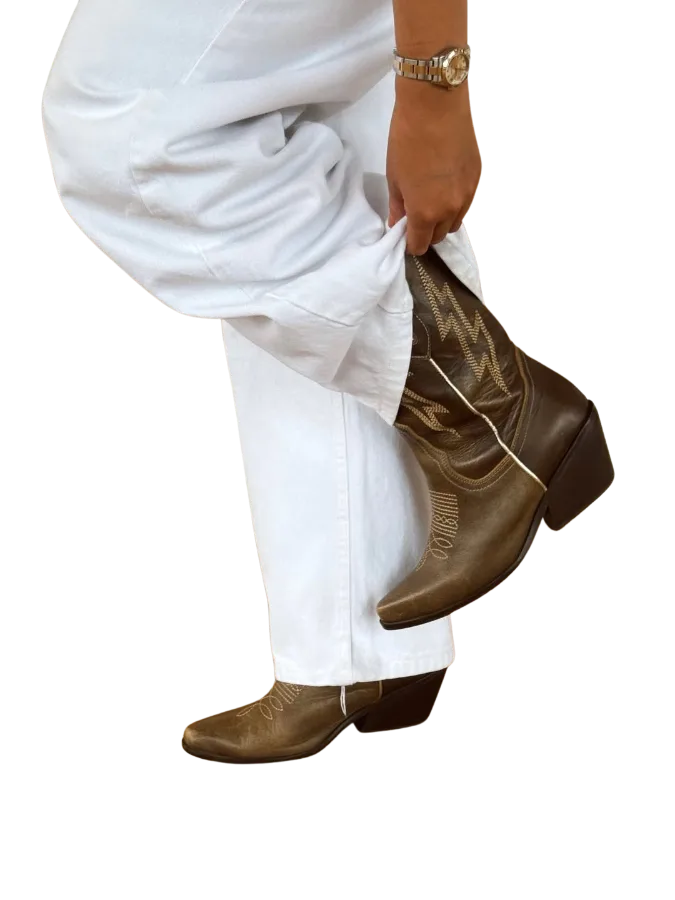
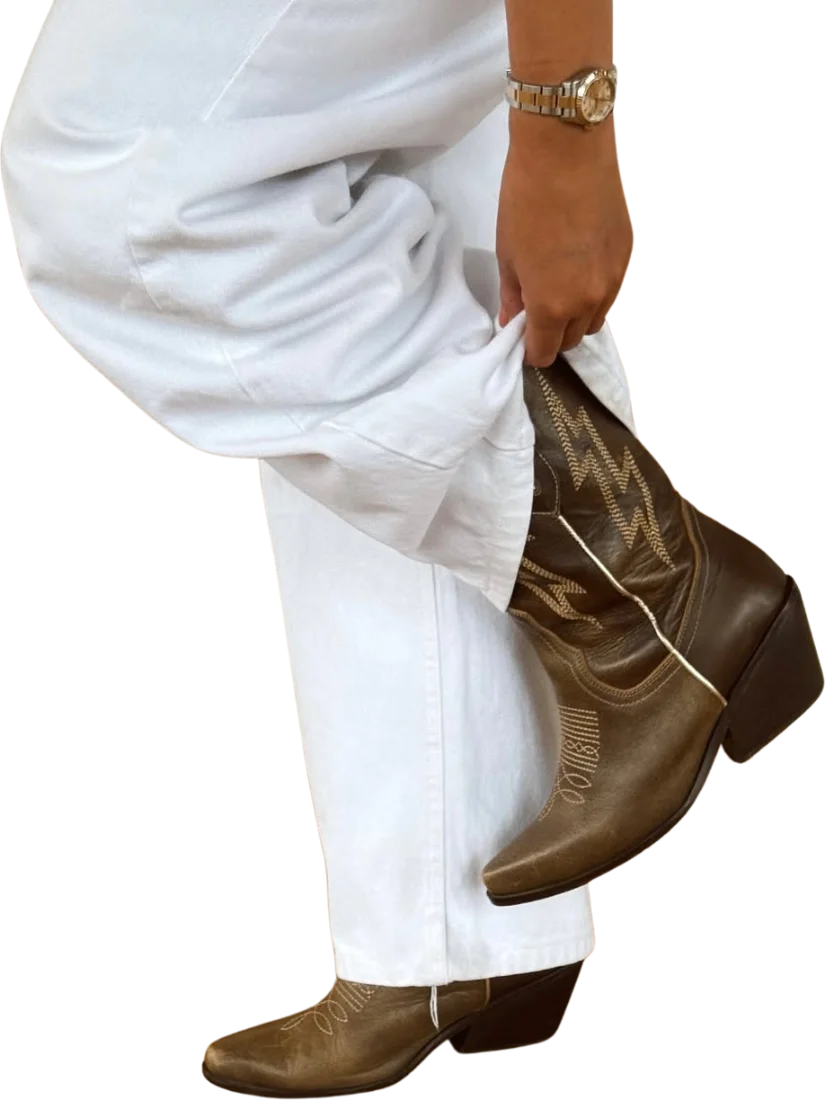
Rediseño bloque del taller y ajuste del hero en pantallas anchas

diff --git a/styles.css b/styles.css
@@ -81,12 +81,12 @@ p+p{margin-top:1em}
 .hero-in{position:relative;width:100%;display:grid;grid-template-columns:1fr;align-items:end;min-height:calc(min(100svh,980px) - 72px)}
 .hero-title{position:relative;z-index:1;align-self:center;padding-top:4vh}
 .hero-title .display{font-size:clamp(110px,22vw,300px);line-height:.82}
-.hero-photo{position:absolute;right:clamp(-40px,4vw,80px);bottom:0;width:min(52vw,640px);z-index:2;pointer-events:none}
+.hero-photo{position:absolute;right:max(0px,calc((100% - var(--max)) / 2));bottom:0;width:min(50vw,620px);z-index:2;pointer-events:none}
 .hero-photo img{width:100%;height:auto;filter:grayscale(1) contrast(1.05)}
-.hero-chip{position:absolute;z-index:3;left:-22%;top:60%}
+.hero-chip{position:absolute;z-index:3;left:-6%;top:70%}
 .hero-chip .chip{display:block;width:max-content;font-size:clamp(28px,4vw,56px);padding:.12em .3em .04em}
 .hero-side{position:absolute;right:var(--gutter);top:50%;transform:translateY(-50%) rotate(90deg);transform-origin:right center;translate:50% 0;font-family:var(--display);letter-spacing:.35em;font-size:18px;color:var(--grey);white-space:nowrap;z-index:1}
-.hero-bottom{position:relative;z-index:3;padding-bottom:clamp(28px,6vh,60px);max-width:440px}
+.hero-bottom{position:relative;z-index:3;padding-bottom:clamp(28px,6vh,60px);max-width:min(440px,calc(50vw - 110px))}
 .hero-bottom .lede{font-weight:500;margin-bottom:22px}
 .hero-bottom .row{display:flex;flex-wrap:wrap;gap:12px}
 .hero-in{grid-template-rows:1fr auto}
@@ -153,10 +153,13 @@ section{position:relative}
 }
 
 /* ---------- taller ---------- */
-.taller{overflow:hidden}
-.taller-top{display:grid;grid-template-columns:1.2fr .8fr;gap:clamp(24px,4vw,60px);align-items:center}
-.taller-top .display{font-size:clamp(76px,12.5vw,180px);line-height:.84}
-.taller-top img{width:100%;max-width:320px;margin-left:auto}
+.taller{overflow:hidden;padding-top:0}
+.taller-hero{position:relative;min-height:clamp(540px,52vw,760px);display:flex;align-items:flex-end;padding-bottom:clamp(12px,2vw,24px)}
+.taller-boots{position:absolute;top:0;right:max(var(--gutter),calc((100% - var(--max)) / 2 + var(--gutter)));height:94%;width:auto;max-width:none;z-index:0;pointer-events:none}
+.taller-copy{position:relative;z-index:1;width:100%}
+.taller-copy .spaced{color:var(--red);margin-bottom:14px}
+.taller-copy .display{font-size:clamp(76px,13vw,196px);line-height:.84}
+.taller-copy .lede{margin-top:22px;max-width:44ch}
 .pillars{display:grid;grid-template-columns:repeat(3,1fr);gap:clamp(16px,2vw,28px);margin-top:clamp(40px,6vw,72px)}
 .pillar{background:var(--white);padding:28px 26px 30px;border-top:6px solid var(--red);position:relative}
 .pillar .n{font-family:var(--display);font-size:64px;line-height:.8;color:var(--pink);-webkit-text-stroke:1.5px var(--red)}
@@ -170,8 +173,9 @@ section{position:relative}
 .event .price{font-family:var(--display);font-size:clamp(44px,5vw,64px);line-height:1;color:var(--white);margin-bottom:12px;text-align:right}
 .event .price small{display:block;font-family:var(--body);font-size:11px;letter-spacing:.28em;color:var(--pink);font-weight:700}
 @media (max-width:860px){
-  .taller-top{grid-template-columns:1fr}
-  .taller-top img{max-width:210px;margin:0 auto}
+  .taller-hero{min-height:auto;display:block;padding-bottom:0}
+  .taller-boots{height:320px;right:-20px}
+  .taller-copy{padding-top:320px}
   .pillars{grid-template-columns:1fr}
   .event{grid-template-columns:1fr}
   .event .price{text-align:left}

diff --git a/index.html b/index.html
@@ -87,7 +87,7 @@
 </div>
 
 <!-- ================= SOBRE MÍ ================= -->
-<section class="sec" id="sobre-mi">
+<section class="sec cream-bg" id="sobre-mi">
   <svg class="arrow" style="right:6%;top:60px" aria-hidden="true"><use href="#arrow"/></svg>
   <div class="wrap">
     <div class="sec-head rv">
@@ -120,16 +120,16 @@
 </section>
 
 <!-- ================= TALLER ================= -->
-<section class="sec cream-bg taller" id="taller">
-  <div class="wrap">
-    <div class="taller-top">
-      <div class="rv">
-        <p class="spaced" style="color:var(--red);margin-bottom:14px">Taller presencial</p>
-        <h2 class="display">Crea con<br>estrategia</h2>
-        <p class="lede" style="margin-top:22px">Un taller práctico para dejar de publicar por publicar y empezar a <strong>crear contenido con intención</strong>: entenderte primero, comunicar desde tu identidad y convertirlo en publicaciones alineadas.</p>
-      </div>
-      <img class="rv" src="/img/botas.webp" width="675" height="900" alt="Pierna con pantalón blanco y botas vaqueras cafés" loading="lazy">
+<section class="sec taller" id="taller">
+  <div class="taller-hero">
+    <img class="taller-boots" src="/img/botas.webp" width="825" height="1100" alt="Pierna con pantalón blanco y botas vaqueras cafés" loading="lazy">
+    <div class="wrap taller-copy">
+      <p class="spaced rv">Taller presencial</p>
+      <h2 class="display rv">Crea con<br>estrategia</h2>
+      <p class="lede rv">Un taller práctico para dejar de publicar por publicar y empezar a <strong>crear contenido con intención</strong>: entenderte primero, comunicar desde tu identidad y convertirlo en publicaciones alineadas.</p>
     </div>
+  </div>
+  <div class="wrap">
 
     <div class="pillars">
       <article class="pillar rv">
